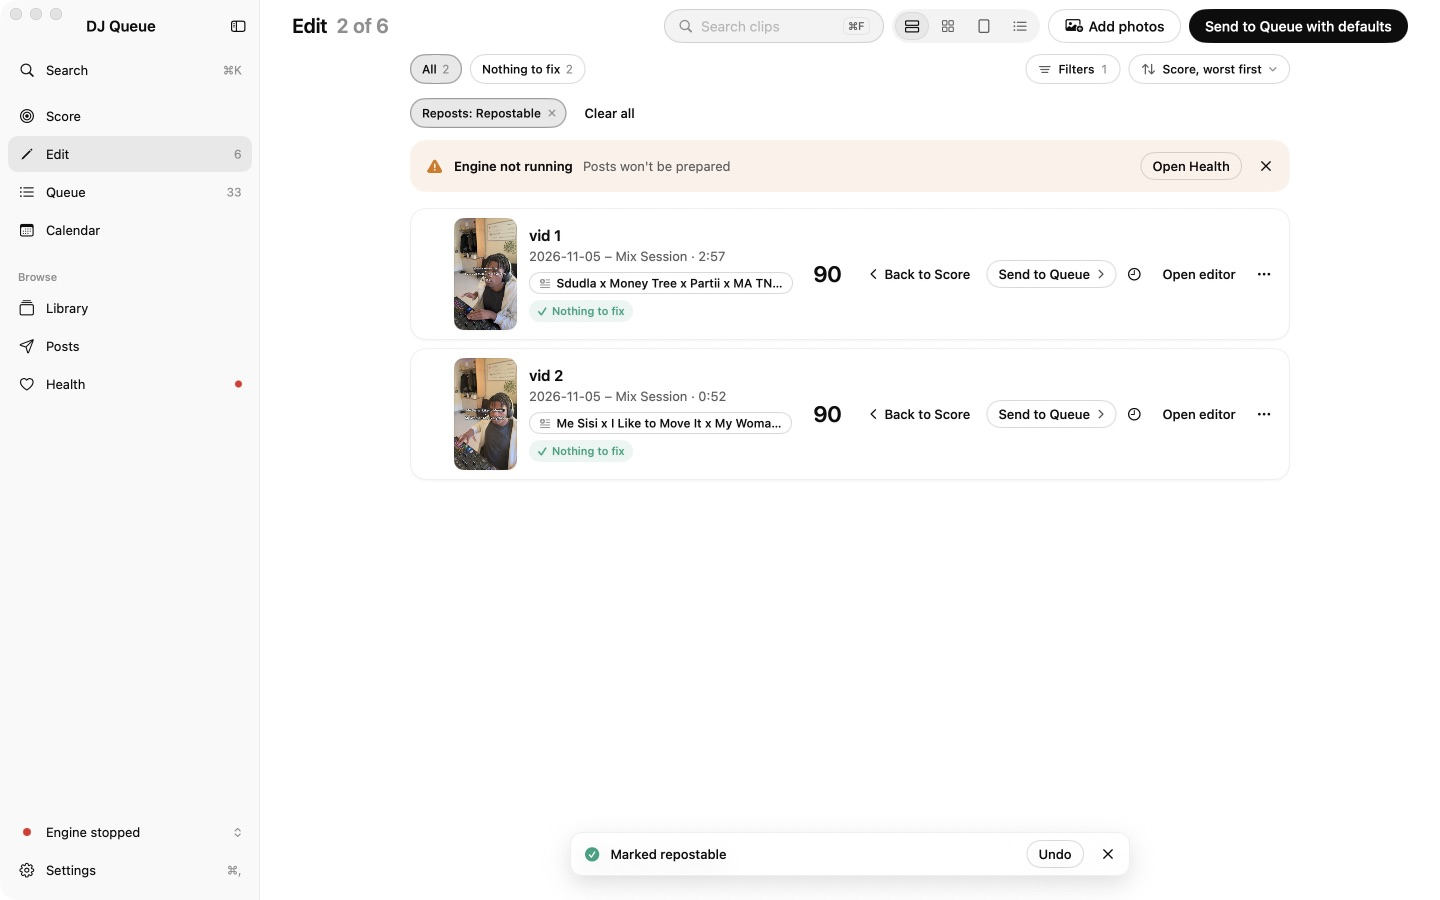
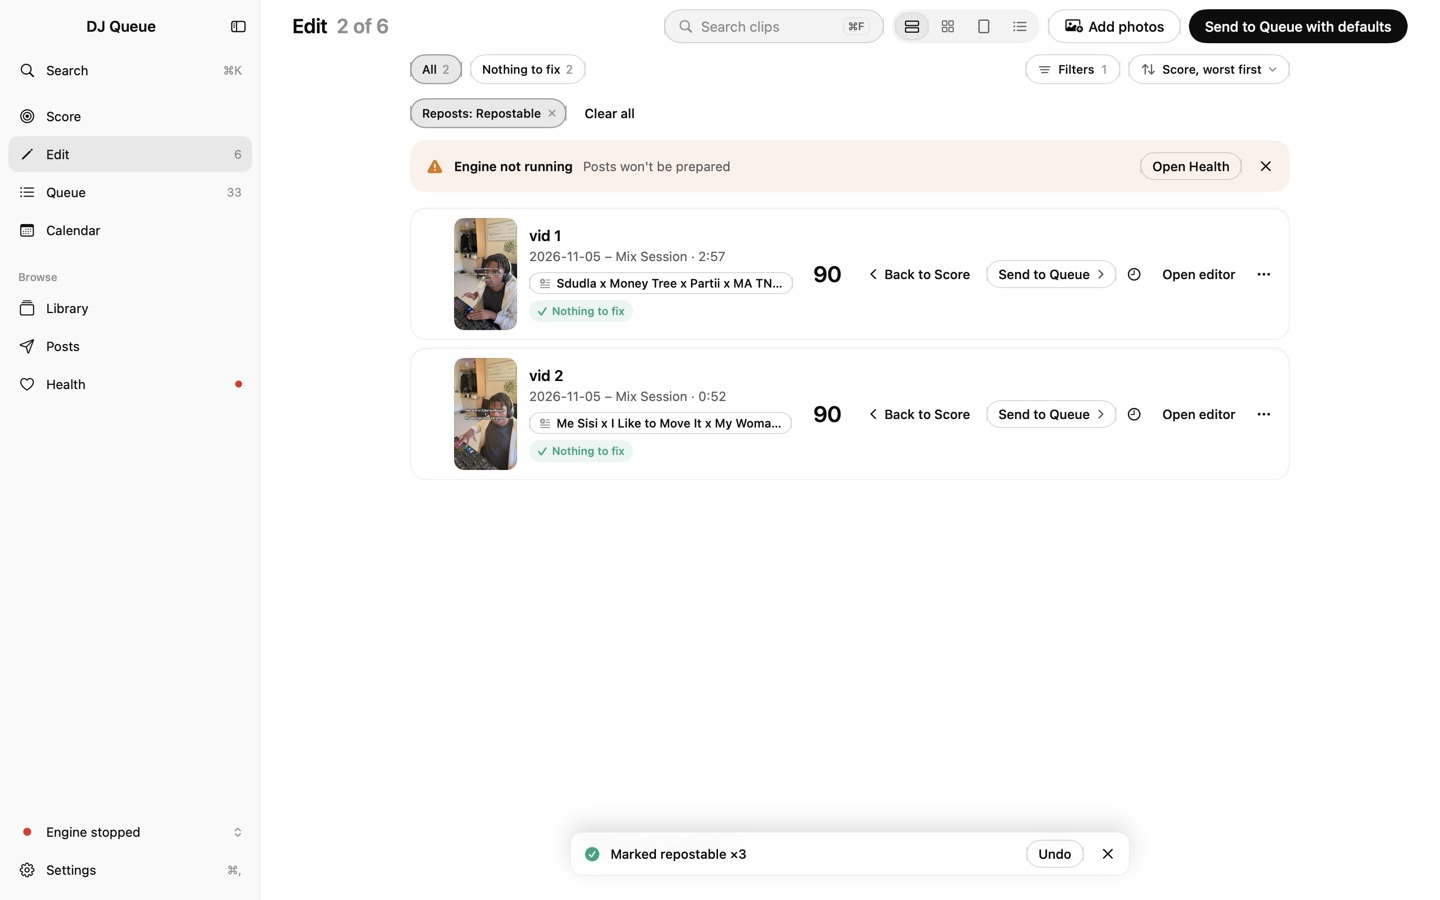
r38 docs: DECISIONS-R38, README, skill, ARCHITECTURE; media from the hidden repostable check

diff --git a/README.md b/README.md
@@ -22,7 +22,7 @@ Recorded off screen from the app's own click-through checks: each frame is a rea
 | **Editor keys** (v0.13.0) — Space plays right after typing, ← → jump 2 s (5 s here), ↓ opens the next clip | **Arrow keys jump** — pick the step and try it on the strip, in Settings → Playback or beside Play |
 | ![Space, arrow jumps and ↓ in the editor](docs/media/editor-keys.gif) | ![Settings → Playback, Arrow keys jump with its try-it strip](docs/media/settings-arrow-keys.jpg) |
 
-**Bulk edits on versions (v0.14.0).** Bulk edits reach every version except captions, and the bulk dialogs say so. (v0.14.0's *Ready to repost* switch is gone since v0.29.0: see *Posts and Mark repostable* below.)
+**Bulk edits on versions (v0.14.0).** Bulk edits reach every version except captions, and the bulk dialogs say so. (v0.14.0's *Ready to repost* switch is gone since v0.29.0: see *Repostable clips and per-version Posts* below.)
 
 | Bulk edits on clips with several versions | The Caption dialog says captions change on v1 only |
 |---|---|
@@ -46,7 +46,7 @@ Recorded off screen from the app's own click-through checks: each frame is a rea
 |---|---|
 | ![Dragging v3's trim end; v1 keeps the shared trim](docs/media/version-trim.gif) | ![Trim switch on All versions, dark](docs/media/version-trim-dark.jpg) |
 
-**Every version posts twice (v0.24.0; since v0.28.0 only on repostable clips, see below).** Each version of a clip is its own post in the plan, and every version posts twice on each platform: v1 · 1 of 2, v2 · 1 of 2, then v1 · 2 of 2 and v2 · 2 of 2. Reposts go by count, never by views. Two posts of one clip are at least 2 days apart and a version waits a week before it posts again, so the Calendar goes round the clips and nothing posts back to back. Every Calendar card says which version post it is; the Queue keeps one card per clip, with the next version post on its date chip and the others as small tags with their day or *waiting*. Settings › Schedule has *Posts per version* and both gaps, and the editor's *Posts* row gives the version you're editing its own count (0 leaves it out). Long-form is never reposted. Agents use `djq post-count`, `djq posts-per-version` and `djq post-spacing`.
+**Every version posts twice (v0.24.0; since v0.28.0 only on repostable clips, at the clip's count since v0.30.0).** Each version of a clip is its own post in the plan, and every version posts twice on each platform: v1 · 1 of 2, v2 · 1 of 2, then v1 · 2 of 2 and v2 · 2 of 2. Reposts go by count, never by views. Two posts of one clip are at least 2 days apart and a version waits a week before it posts again, so the Calendar goes round the clips and nothing posts back to back. Every Calendar card says which version post it is; the Queue keeps one card per clip, with the next version post on its date chip and the others as small tags with their day or *waiting*. Settings › Schedule has *Posts per version* and both gaps, and the editor's *Posts* row gives the version you're editing its own count (0 leaves it out). Long-form is never reposted. Agents use `djq post-count`, `djq posts-per-version` and `djq post-spacing`.
 
 | Posts per version in Settings, a version's own count in the editor, then the Queue and the Calendar | The Queue: the next version post on the date chip, the rest waiting |
 |---|---|
@@ -72,11 +72,11 @@ Recorded off screen from the app's own click-through checks: each frame is a rea
 |---|---|
 | ![Post today on a full evening: each platform right away, YouTube at 3:30 AM with the reason](docs/media/post-today.gif) | ![The Post today dialog in dark mode](docs/media/post-today-dark.jpg) |
 
-**Posts and Mark repostable (v0.28.0, one control since v0.29.0).** Each version posts once unless you say otherwise. In the editor there's one repost control: **Posts** on the version you're editing, and a Posts stepper on every row of the versions list (Never, Once, 2 times …; ↺ goes back to the clip's setting). For whole clips, select them on the Queue, Edit or Library (or right-click one, also on the Calendar and in ⌘K) and choose **Mark repostable**: every version then posts twice, spaced out (Settings › Schedule › *Posts per version*), unless a version has its own Posts. **Mark not repostable** puts every version back to once; reposts already planned come off and the Calendar closes up. Both ask first and have Undo. Filters › Reposts shows *Repostable* or *Posts once*, and ⌘K finds "repostable". Agents use `djq bulk repostable|not-repostable`, `djq reposts <clip> on|off` and `djq post-count`.
+**Repostable clips and per-version Posts (v0.30.0).** Each version posts once unless you say otherwise, in two layers. **The whole clip:** turn on *Repostable* at the top of the editor and pick a count (×2, ×3 …), or select clips on the Queue, Edit or Library (or right-click one, also on the Calendar and in ⌘K) and choose *Mark repostable ▸ ×2 … ×5*. Every version of the clip then posts that many times, spaced out. **One version:** its *Posts* follows the clip (*Clip setting*) until you change it; then it's that version's *Override* (Once, 5 times, Never …), and ↺ puts it back. *Mark not repostable* sends every version back to once, except the ones you overrode; reposts already planned come off and the Calendar closes up. Both bulk actions ask first and have Undo. Filters › Reposts shows *Repostable* or *Posts once*, and ⌘K finds "repostable". Agents use `djq reposts <clip> on 3|off`, `djq bulk repostable 3` and `djq post-count`.
 
-| Mark repostable on the Queue asks first | Posts is the one control in the editor |
+| Mark repostable on the Queue asks first | The clip is Repostable ×3; v1 overrides it with 2 times |
 |---|---|
-| ![Mark 2 clips repostable? Each version 2 times, spaced out](docs/media/mark-repostable.jpg) | ![Editor inspector with Posts at the top](docs/media/repost-switch.jpg) |
+| ![Mark 2 clips repostable? Each version 2 times, spaced out](docs/media/mark-repostable.jpg) | ![Editor: Repostable ×3 for the whole clip, v1 posts 2 times as an override](docs/media/repost-switch.jpg) |
 | **Each version's Posts in the versions list** | **Filters › Reposts: Repostable** |
 | ![Versions list with a Posts stepper on every version](docs/media/version-posts-list.jpg) | ![Edit filtered to repostable clips](docs/media/repostable-filter.jpg) |
 

diff --git a/DECISIONS-R38.md b/DECISIONS-R38.md
@@ -1,0 +1,41 @@
+# Decisions: round 38, a repostable clip carries its count; a version's Posts overrides it
+
+Eric (2026-11-16), correcting v0.29.0: "for an entire video I can mark it as repostable … if I mark it as repostable and
+give it a repost count of 3, then every single version inside that post should post 3 times. The overrides were only for
+specific versions … I can override it by going to one of the versions and saying, oh, I only want this to be posted
+once, or 5 … it seems like you're mixing 2 functionalities."
+
+## Decisions
+
+1. **Two layers.** The clip: *Repostable* with a count (×2 … ×9). Every version of the clip posts that many times. The
+   version: *Posts*, an override for that version only (Never, Once, 5 times …); until it's set, the version follows the
+   clip ("Clip setting"), and ↺ puts it back. Not repostable: every version posts once, except the versions with their
+   own Posts.
+2. **Where the clip layer lives:** at the top of the editor (*Repostable · Whole clip*, a switch, and *Each version posts
+   ×N* once it's on), and in bulk: *Mark repostable ▸ ×2 / ×3 / ×4 / ×5* and *Mark not repostable* on the Queue, Edit,
+   Library, Calendar and ⌘K menus (asks first, Undo). One clip shows its current count checked.
+3. **The version layer** shows which it is: in the editor "v1 posts" with a *Clip setting* or *Override* badge and ↺; in
+   the versions list "Posts · clip" or "Posts · own".
+4. **Overrides survive the clip changing.** Mark not repostable no longer clears a version's own Posts (v0.29.0 did): an
+   override is Eric's per-version choice. A lower clip count, or not repostable, takes the reposts it no longer asks for
+   off the calendar (round 36's rule) and the calendar closes up.
+5. **Settings › Posts per version** is the count a clip starts at when it's marked without picking one (the editor's
+   switch, `djq reposts <clip> on`). It never changes a clip that already has a count.
+6. **Stored as** kv `plan.repost` = `[clip id: count]`. Round 37's list of ids reads as the Settings count. Undo restores
+   the clip's count; old round-37 journals restore the mark at the Settings count.
+7. **A clip that finished posting before round 31** keeps its one post unless Eric marks it repostable: marking it is his
+   explicit choice, so its versions then post the clip's count.
+
+## Surfaces
+
+| Surface | Now |
+|---|---|
+| Editor inspector | Repostable · Whole clip (switch, ×N), then "vN posts" (Clip setting / Override, ↺) |
+| Versions list | "Posts · clip" / "Posts · own" per row, ↺ on an override; header copy |
+| Queue, Edit, Library bulk bars and card menus, Calendar menu, ⌘K | Mark repostable ▸ ×2–×5, Mark not repostable |
+| Filters › Reposts, ⌘K "repostable" | unchanged (some version posts more than once) |
+| djq | `reposts <clip> on [2-9]|off`, `bulk repostable [2-9]`, `djq video` "(repostable ×N)", `--json` `repost_count` |
+| Agent API | `repost_count` on a clip |
+| Settings › Posts per version | the starting count |
+| Planner | `PostUnits.count(…, repostCount:)`: own ?? clip count ?? once |
+| Live checks | `repostable` (+dark) drives the switch, the clip count, a version override, ↺, bulk ×3 / ×2 / not |

diff --git a/ARCHITECTURE.md b/ARCHITECTURE.md
@@ -220,6 +220,7 @@ Eric's pipeline is Score → Edit → Queue → Posted. Decisions: `DECISIONS-R1
 - **Round 34: every post in the Queue has a day (DECISIONS-R34.md).** `Planner.fill` runs in two steps: a clip new to the Queue (no day, no post) takes the earliest open position, or from `Planner.firmDays` (7) on the day of the earliest movable repeat, which goes back to waiting; then open positions take the next version post with the round-31 rules out to `autoScheduleHorizonDays` (365, a runaway bound; the pass stops when nothing is left). Repeats no longer stop at a week ahead, so nothing in the Queue reads "Not scheduled" while days are open.
 - **Round 36: Repost is off by default (DECISIONS-R36.md).** kv `plan.repost` lists the clips with Repost on (`RepostSwitch`, `Store.setRepost`). `PostUnits.count`: a version's own count wins (0 = never); otherwise `postsPerVersion` with Repost on, else 1. `ClipUnits.needsPost` also counts a version done on a platform once it has that many of its posts there, and `dropUnitsBeyondCount` takes a version's later day off when its other posts already make its count (latest first). Posts coming off (a lower count, Repost off: kv `plan.compactDue`) make the pass re-lay the movable days in their old order, so the calendar closes up.
 - **Round 37: one repost control (DECISIONS-R37.md).** The editor has only Posts (`EditorPostCountRow`, a stepper per `EditorVersionList` row); Ready to repost and the clip switch are gone from the UI. Clip-wide: `BulkActions.setRepostable` (journaled with the plan and `ClipSnap.repost`, journaled only by this action) behind `AppModel.markRepostable` / `RepostMenuItems` on the Queue, Edit, Library, Calendar and ⌘K menus. `Store.repostableClips()` (UnitBook: any version count > 1) feeds Filters › Reposts, search and the API.
+- **Round 38: two layers (DECISIONS-R38.md).** kv `plan.repost` = `[clip id: count]`; `PostUnits.count(…, repostCount:)` = a version's own Posts ?? the clip's count ?? once. Editor: `EditorClipRepostRow` (switch + ×N) over `EditorPostCountRow` (Clip setting / Override, ↺). Bulk `setRepostable(ids, count:)` behind *Mark repostable ▸ ×2–×5* (`RepostMenuItems`); not repostable keeps version overrides.
 - **Lead time:** a position is open only when its earliest platform time is 30 min away or more; no post is ever created in the past or inside the lead. A swap that would put another clip inside it is refused.
 - **Plan days:** `Placer`, `reflow`, `push` and `makeRoom` key a post by its plan day (`Sched.planDay`), not the local posting day: with 3 a day and a 180-minute offset, position 2 posts after midnight.
 - **Relay:** only when posts/day or the Queue sort changes (kv `plan.layoutSig`), once; the first run just records it. Pinned, posted, sooner than 60 min, handed-to-the-Calendar and Postiz-published slots stay. Everything else about a gap is filled from the backlog; other clips keep their days.

diff --git a/skills/dj-queue-agent/SKILL.md b/skills/dj-queue-agent/SKILL.md
@@ -154,8 +154,8 @@ djq overlay remove <video> <number|id> [--version N]
 ### Versions: ready to repost, and bulk edits (round 20)
 
 ```sh
-djq bulk repostable --ids a,b | bulk not-repostable --ids a,b   # Mark repostable (every version posts Posts per version, 2) or not (once); asks nothing, undo with bulk undo — only on Eric's word
-djq reposts <video> [on|off] | reposts --list   # one clip; `repost-ready` is the old name
+djq bulk repostable 3 --ids a,b | bulk not-repostable --ids a,b   # Mark repostable ×3 (every version posts 3 times) or not (once); a version's own Posts (post-count) is its override and stays; undo with bulk undo — only on Eric's word
+djq reposts <video> [on [2-9]|off] | reposts --list   # one clip; `repost-ready` is the old name
 djq videos --repostable [--json]                # repostable clips (some version posts more than once; filter `repostable`)
 ```
 
@@ -171,7 +171,7 @@ djq videos --repostable [--json]                # repostable clips (some version
 - Round 27: every version from v2 on is its own copy (`standalone: true` in `djq video --json`). Nothing carries
   forward between versions: editing v1 never changes v2 and the other way round; what a version doesn't set follows
   the defaults. `djq text|caption|youtube-title --version N` on a version that doesn't exist yet makes it as a full
-  copy of the one before, then applies the change. A copy posts once unless its clip is repostable or you set its Posts.
+  copy of the one before, then applies the change. A copy follows its clip's repost count unless you set its own Posts.
 
 ### Trim per version (round 30)
 
